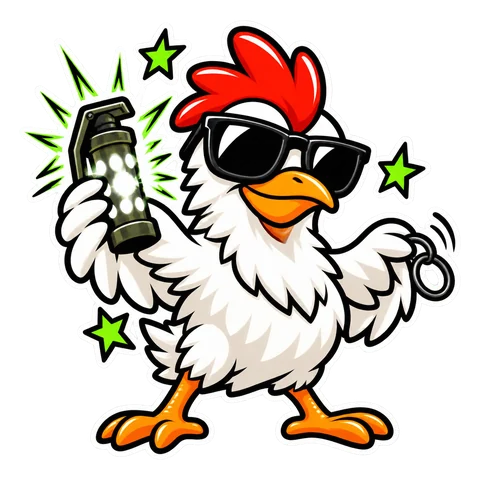
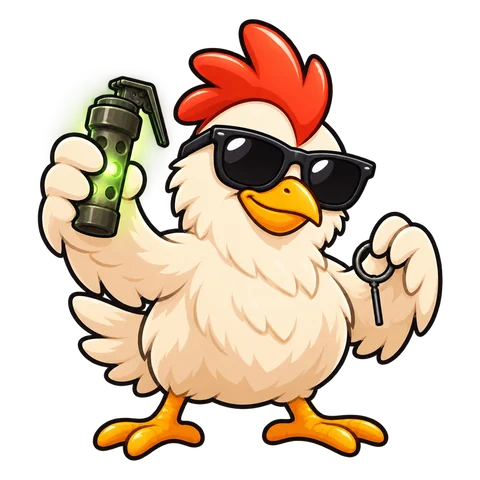
CS memes redrawn in a clean meme-cartoon style: no white sticker border, no stars or scattered motion lines, a cream hen; white drops from 25-38% of each picture to 0-9%, so the row reads lighter on the dark site; the wide Negev and the tall Zeus are redrawn to match

diff --git a/docs/ART_PROMPTS.md b/docs/ART_PROMPTS.md
@@ -426,24 +426,26 @@ style. The second attached image is the approved style reference for this line: 
 
 | Линейка | Стиль | Цена, монет | Риск | Кейсы |
 |---|---|---|---|---|
-| 7. Memy | стикер | 0,49–9,99 | high | Eco Round, Ping 999, Flashbang, VAC, Rush B, Negev, Zeus, 360 Noscope |
+| 7. Memy | чистый мем-мультик | 0,49–9,99 | high | Eco Round, Ping 999, Flashbang, VAC, Rush B, Negev, Zeus, 360 Noscope |
 | 8. Old School | low-poly 2003 | 4,90–29,90 | medium | Dust II, Stuck, Banana, Bhop, 1.6 |
 | 9. Pro Scene | хром на сцене | 39–199 | high | Ace, Clutch, Smurf, Tryhard, Major |
 
 ---
 
-### Линейка 7. Memy — стикер, дёшево, high
+### Линейка 7. Memy — чистый мем-мультик, дёшево, high
 
-Стиль:
+Стиль перерисован 2026-10-29. Раньше был стикер с толстой белой обводкой, звёздочками и линиями движения: в ряду из восьми на тёмном сайте белого выходило 25–38% картинки, и GK сказал «тяжело смотрится». Срезать обводку программно пробовали, вышло грязно. Старые картинки лежат в `_ARCHIVE/old_versions_2026-10-29/memes-sticker/`. Сейчас белого 0–9%.
+
+Стиль (образцы: `vac` для предметов, `flashbang` для курицы):
 ```
-Style: die-cut meme sticker. Flat 2D cartoon, thick black ink outlines, bold flat colours with one hard cel shadow,
-oversaturated 'deep-fried' colours, comic motion lines and impact stars, and a thick white sticker border running
-around the whole silhouette. Like a chat sticker pack.
+Style: clean bold meme cartoon, like a premium chat sticker but WITHOUT any white sticker border or outline around
+the silhouette: the silhouette ends directly in a thick dark charcoal ink outline against the transparent background.
+Flat bold colours with one soft cel shadow, a little glossy highlight, crisp and clean. The chicken's feathers are
+warm cream, not pure white. Minimal effects: no stars, no sparkles, no confetti, no scattered motion lines, no
+flying debris; at most one clean effect that IS the gag (the lightning on Zeus, the swooshes on 360 Noscope).
+Lots of breathing room around the subject.
 ```
-Палитра:
-```
-Palette: alarm red, toxic chat-green, flashbang white, black ink.
-```
+Палитра у каждого кейса своя: строка `Palette:` в конце промпта, белый только внутри символов.
 
 | slug | Имя | Цена | Риск | Курица |
 |---|---|---|---|---|
@@ -463,9 +465,9 @@ Palette: alarm red, toxic chat-green, flashbang white, black ink.
 - **zeus:** `Scene: the chicken mascot, full body, holding a small yellow Zeus taser in its own wing and accidentally zapping itself: its whole body flashing with electric-blue lightning, a cartoon x-ray showing its skeleton through the feathers, feathers standing on end, googly eyes spinning, beak wide open. The taser is fully visible in its wing.`
 - **eco-round:** `Scene: a big brown leather wallet flung wide open and completely empty, a cartoon moth fluttering out of it, a single small pistol lying in the open wallet as the only thing left, one lonely coin rolling away; a broke, funny 'eco round' mood. Palette: worn brown leather, toxic chat-green, alarm red accents, flashbang white, black ink.`
 - **rush-b:** `Scene: the chicken mascot sprinting flat out towards the viewer in a reckless all-in rush, seen three-quarter from the front, gripping a P90 submachine gun with both wings, legs spinning into a cartoon blur of motion lines, crest and feathers blown back, beak wide open in a joyful yell, a small puff of sand kicked up behind its feet.`
-- **noscope:** `Scene: an AWP sniper rifle caught mid-spin in a full 360-degree turn, drawn complete and kept compact, surrounded by one big round swirl of motion lines that circles it; its scope has popped off and flies away with a little comic pop, a small red X mark on the empty scope rail; a bright comic muzzle flash kept well inside the frame.` (прицел модель всё равно оставила на месте)
+- **noscope:** `Scene: an AWP sniper rifle caught mid-spin in a full 360-degree turn, drawn complete and kept compact, surrounded by one big round swirl of motion lines that circles it; its scope has popped off and flies away with a little comic pop, a small red X mark on the empty scope rail; a bright comic muzzle flash kept well inside the frame.` (прицел модель всё равно оставила на месте). В чистом стиле: `two bold thick curved motion swooshes in red and orange wrapping fully around it`, с одним росчерком вращение не читалось.
 
-Фигурные карточки ряда (`public/img/cases/wide/negev.webp` 968×440, `tall/zeus.webp` 468×1152 — ровно пропорции области картинки в карточке на десктопе, 2,2:1 и 0,41:1, иначе по краям пусто): первая широкая/высокая версия — образец, в промпте «re-fit it so the whole sticker silhouette has the SAME proportions as this frame (about 2.2 wide to 1 high)» / «(about 1 wide to 2.4 high)», размер 1536×704 / 640×1536, по 2 варианта и берётся тот, у которого пропорции ближе (слова «very wide / very tall» дают перебор); ряд из 8 кейсов с одной широкой и одной высокой закрывает две строки по 5.
+Фигурные карточки ряда (`public/img/cases/wide/negev.webp` 968×440, `tall/zeus.webp` 468×1152 — ровно пропорции области картинки в карточке на десктопе, 2,2:1 и 0,41:1, иначе по краям пусто): первая широкая/высокая версия — образец, в промпте «re-fit it so the whole sticker silhouette has the SAME proportions as this frame (about 2.2 wide to 1 high)» / «(about 1 wide to 2.4 high)», размер 1536×704 / 640×1536, по 2 варианта и берётся тот, у которого пропорции ближе (слова «very wide / very tall» дают перебор); ряд из 8 кейсов с одной широкой и одной высокой закрывает две строки по 5. Фигурные версии рисуются правкой уже одобренной квадратной картинки; в webp рисунок обрезается по контуру и вписывается в рамку с полем 3%.
 
 ---
 
